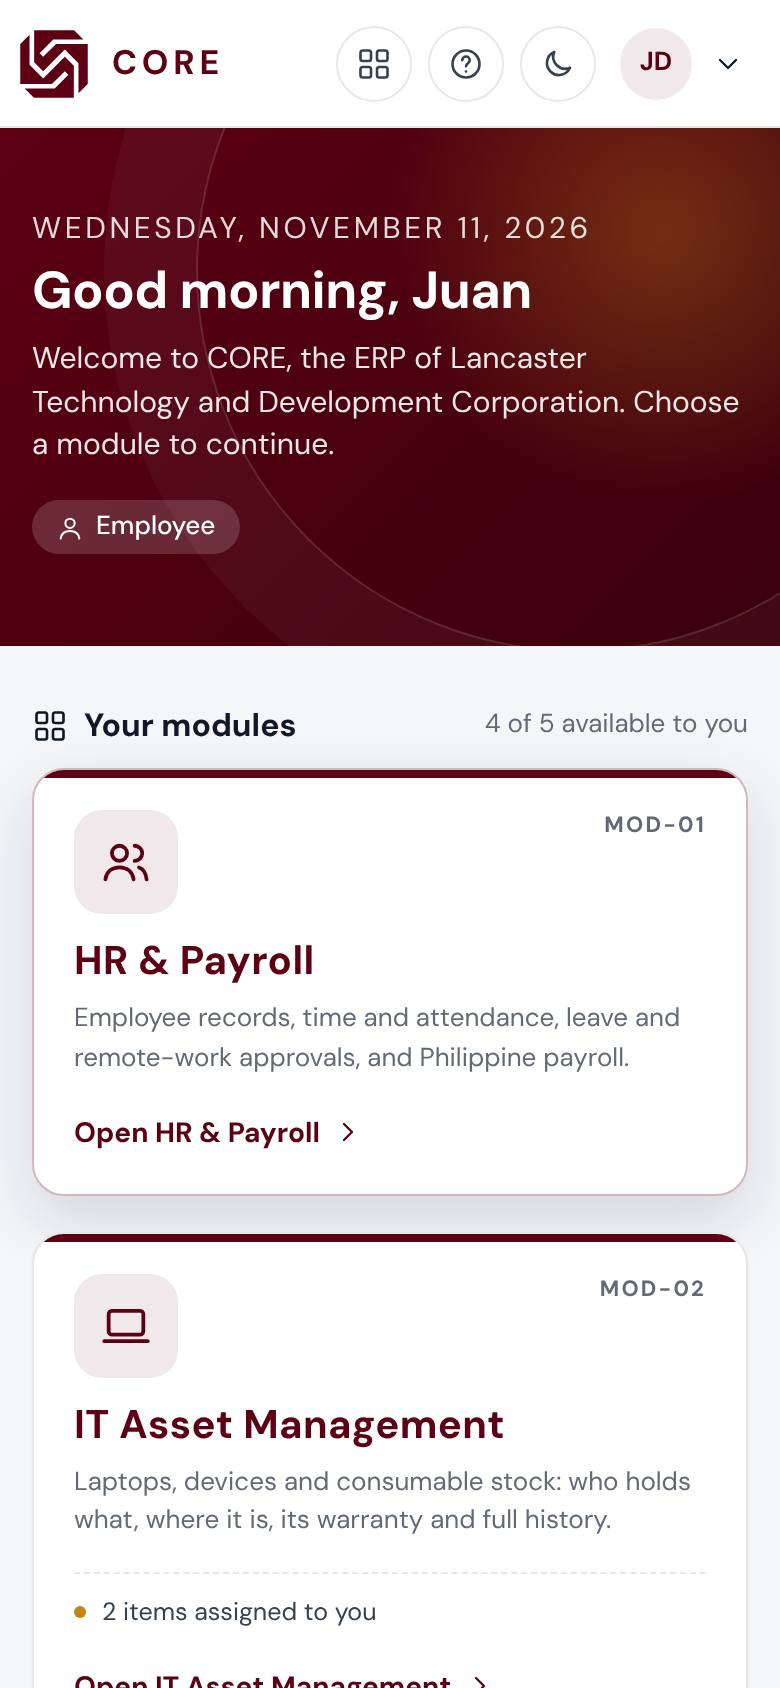
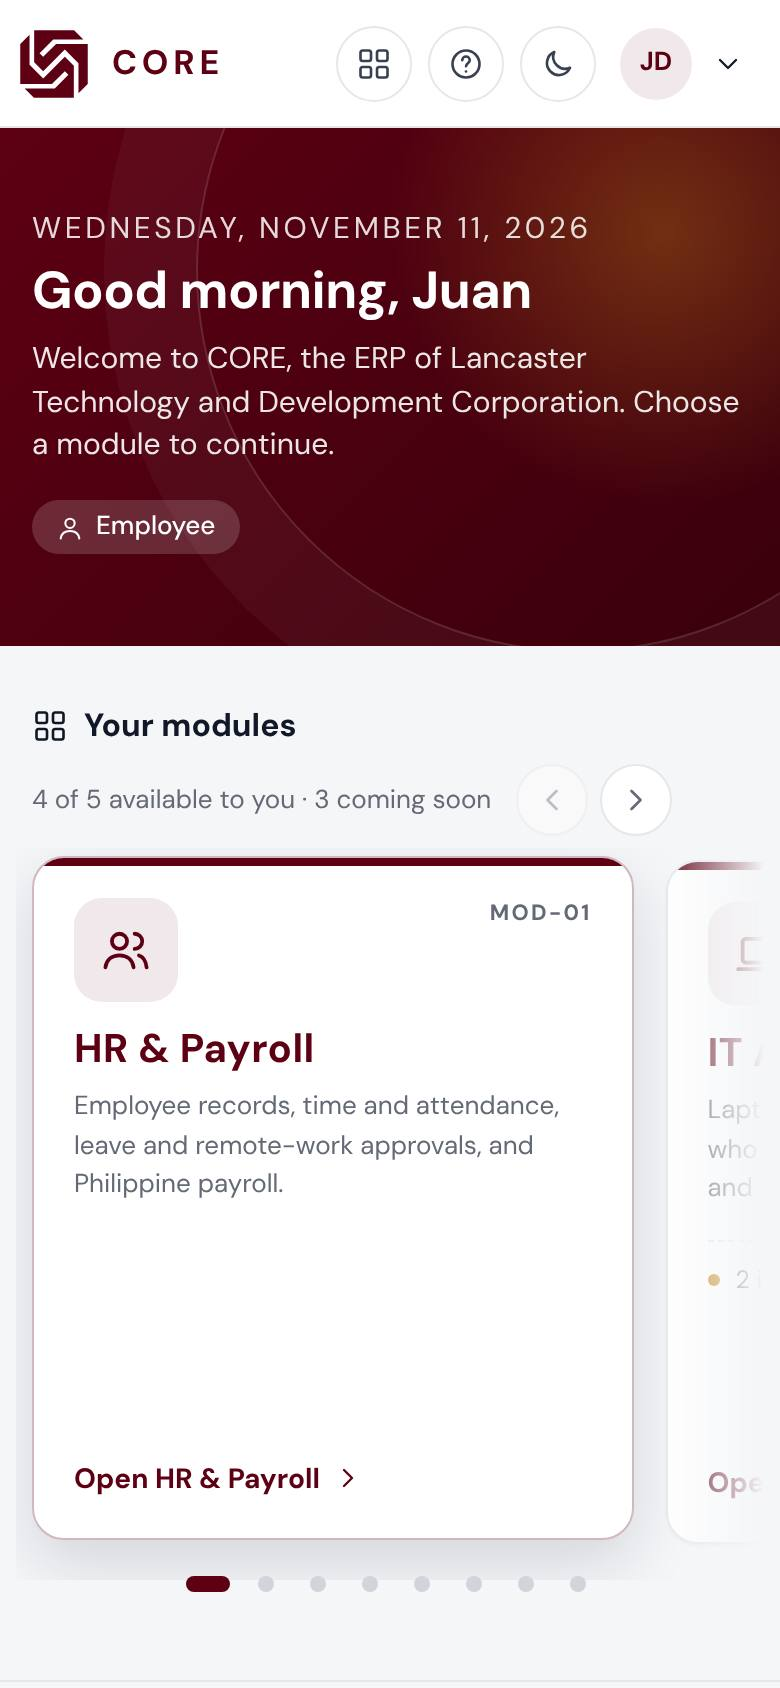
CORE 0.13.1: modules carousel on the CORE home, as on the ATLAS home
Your modules is now the same sliding, snapping row as ATLAS's "Your
systems": arrows and page dots when cards are out of view, swipe on
phones, arrow keys on the focused row, edge fades. Openable modules come
first, then locked ones, then roadmap modules as Coming soon cards (the
separate roadmap list is removed). Guide text and screenshots updated.

Claude-Session: https://claude.ai/code/session_01JQ4oxiUA7CnD1ir2UC84uB

diff --git a/public/css/styles.css b/public/css/styles.css
@@ -396,7 +396,36 @@ section.hub-wrap { margin-top: 28px; }
 .hub-kicker { font-size: 12px; letter-spacing: 0.12em; text-transform: uppercase; opacity: 0.85 !important; }
 .hub-role { display: inline-flex; align-items: center; gap: 6px; margin-top: 16px; padding: 4px 12px; border-radius: 999px; background: rgba(255, 255, 255, 0.16); font-size: 13px; font-weight: 600; }
 .hub-role + .hub-role { margin-left: 8px; }
-.sys-grid { display: grid; grid-template-columns: repeat(4, minmax(0, 1fr)); gap: 16px; }
+/* "Your modules" carousel: the same layout as the ATLAS home. */
+.sys-nav { display: flex; align-items: center; gap: 12px; }
+.sys-arrows { display: inline-flex; gap: 6px; }
+.sys-arrows[hidden] { display: none; }
+.sys-arrows .icon-btn { width: 36px; height: 36px; border-radius: 50%; border: 1px solid var(--border); background: var(--surface); }
+.sys-arrows .icon-btn:hover:not(:disabled) { border-color: var(--brand-line); color: var(--brand-text); }
+.sys-arrows .icon-btn:disabled { opacity: 0.4; cursor: default; }
+.sys-carousel { position: relative; }
+.sys-track { --gap: 16px; --per: 4; display: grid; grid-auto-flow: column; grid-auto-columns: calc((100% - (var(--per) - 1) * var(--gap)) / var(--per)); gap: var(--gap);
+  overflow-x: auto; overscroll-behavior-x: contain; scroll-snap-type: x mandatory; scroll-behavior: smooth; scrollbar-width: none;
+  padding: 6px 8px 18px; margin: -6px -8px -10px; scroll-padding-inline: 8px; }
+.sys-track::-webkit-scrollbar { display: none; }
+.sys-track:focus-visible { outline: 2px solid var(--brand); outline-offset: 2px; border-radius: 18px; }
+.sys-track > .sys-card { scroll-snap-align: start; }
+/* A soft fade on the side where more cards wait. */
+.sys-carousel.more-right .sys-track { -webkit-mask-image: linear-gradient(to right, #000 calc(100% - 56px), transparent); mask-image: linear-gradient(to right, #000 calc(100% - 56px), transparent); }
+.sys-carousel.more-left .sys-track { -webkit-mask-image: linear-gradient(to right, transparent, #000 56px); mask-image: linear-gradient(to right, transparent, #000 56px); }
+.sys-carousel.more-left.more-right .sys-track { -webkit-mask-image: linear-gradient(to right, transparent, #000 56px, #000 calc(100% - 56px), transparent); mask-image: linear-gradient(to right, transparent, #000 56px, #000 calc(100% - 56px), transparent); }
+.sys-dots { position: relative; z-index: 1; display: flex; justify-content: center; gap: 2px; }
+.sys-dots[hidden] { display: none; }
+/* 24px targets around small dots. */
+.sys-dots button { display: grid; place-items: center; min-width: 24px; height: 24px; padding: 0 4px; border: 0; background: none; cursor: pointer; }
+.sys-dots button::before { content: ''; width: 8px; height: 8px; border-radius: 999px; background: var(--border-strong); transition: width 0.2s, background 0.2s; }
+.sys-dots button:hover::before { background: var(--muted); }
+.sys-dots button[aria-current='true']::before { width: 22px; background: var(--brand); }
+.sys-dots button:focus-visible { outline: 2px solid var(--brand); outline-offset: 0; border-radius: 999px; }
+@media (prefers-reduced-motion: reduce) { .sys-track { scroll-behavior: auto; } .sys-dots button::before { transition: none; } }
+@media (max-width: 1100px) { .sys-track { --per: 3; } }
+@media (max-width: 820px) { .sys-track { --per: 2; } }
+@media (max-width: 560px) { .sys-track { --per: 1; grid-auto-columns: 84%; } }
 .sys-card { display: flex; flex-direction: column; gap: 6px; padding: 20px; min-height: 240px; background: var(--surface); border: 1px solid var(--border); border-radius: 16px; color: var(--text); box-shadow: var(--shadow); position: relative; overflow: hidden; transition: transform 0.14s, box-shadow 0.14s, border-color 0.14s; }
 .sys-card::before { content: ''; position: absolute; inset: 0 0 auto 0; height: 4px; background: var(--brand); }
 a.sys-card:hover { text-decoration: none; transform: translateY(-2px); box-shadow: var(--shadow-lg); border-color: var(--brand-line); }
@@ -438,7 +467,6 @@ body.hub .topbar { padding-left: 24px; }
   .cols.wide-left, .res-layout, .quiz-layout, .class-head { grid-template-columns: minmax(0, 1fr); }
   .grid, .grid.two { grid-template-columns: minmax(0, 1fr); }
   .span-2, .span-3 { grid-column: auto; }
-  .sys-grid { grid-template-columns: repeat(2, minmax(0, 1fr)); }
   .hub-wrap { padding: 0 16px; }
   .hub-hero h1 { font-size: 26px; }
   body.hub .topbar { padding-left: 12px; }
@@ -493,7 +521,6 @@ body.hub .topbar { padding-left: 24px; }
   .table.stackable .module-row .desc { grid-column: 2; max-width: none; margin-top: 0; }
   .scroll-x:has(.att-take) { overflow-x: visible; }
   .tiles { grid-template-columns: 1fr; }
-  .sys-grid { grid-template-columns: 1fr; }
   .sys-card { min-height: 0; }
 }
 @media print {
@@ -1173,7 +1200,6 @@ body.launcher-mode .sidebar, body.launcher-mode #menu-btn { display: none; }
 body.launcher-mode main#app { padding: 0; max-width: none; display: flex; flex-direction: column; min-height: calc(100vh - var(--topbar)); }
 .hub-hero .hub-wrap { position: relative; z-index: 1; }
 .hub-hero .hero-mark { position: absolute; right: 6%; top: 50%; transform: translateY(-50%); width: 210px; height: 210px; opacity: 0.16; z-index: 0; pointer-events: none; }
-.sys-grid.three { grid-template-columns: repeat(3, minmax(0, 1fr)); }
 .sys-figs { list-style: none; margin: 10px 0 0; padding: 10px 0 0; border-top: 1px dashed var(--border); display: grid; gap: 4px; font-size: 12.5px; color: var(--text-2); }
 .sys-figs li { display: flex; align-items: center; gap: 8px; }
 .sys-figs li::before { content: ''; width: 6px; height: 6px; border-radius: 50%; background: var(--accent); flex: none; }
@@ -1182,11 +1208,6 @@ body.launcher-mode main#app { padding: 0; max-width: none; display: flex; flex-d
 .sys-card.locked .sys-ic { background: var(--surface); color: var(--muted); border: 1px solid var(--border); }
 .sys-card.locked .sys-name { color: var(--muted); }
 .sys-code { font-size: 11px; font-weight: 700; letter-spacing: 0.1em; color: var(--muted); }
-.soon-grid { display: grid; grid-template-columns: repeat(5, minmax(0, 1fr)); gap: 12px; }
-.soon-item { display: flex; gap: 10px; align-items: flex-start; padding: 14px; border: 1px dashed var(--border-strong); border-radius: var(--radius); background: var(--surface); color: var(--muted); }
-.soon-item .ic { color: var(--muted); margin-top: 1px; }
-.soon-item strong { display: block; color: var(--text-2); font-size: 13px; }
-.soon-item small { display: block; font-size: 12px; line-height: 1.4; }
 .admin-tiles { display: grid; grid-template-columns: repeat(4, minmax(0, 1fr)); gap: 12px; }
 .admin-tile { display: flex; align-items: center; gap: 12px; padding: 14px 16px; background: var(--surface); border: 1px solid var(--border); border-radius: var(--radius); color: var(--text); box-shadow: var(--shadow); }
 .admin-tile:hover { text-decoration: none; border-color: var(--brand-line); background: var(--brand-softer); }
@@ -1200,20 +1221,17 @@ body.launcher-mode main#app { padding: 0; max-width: none; display: flex; flex-d
 
 
 @media (max-width: 1100px) {
-  .soon-grid { grid-template-columns: repeat(3, minmax(0, 1fr)); }
   .admin-tiles { grid-template-columns: repeat(2, minmax(0, 1fr)); }
 }
 @media (max-width: 960px) {
-  .sys-grid.three { grid-template-columns: repeat(2, minmax(0, 1fr)); }
   .hub-hero .hero-mark { width: 140px; height: 140px; right: 4%; }
   .mod-pop { position: fixed; left: 10px; right: 10px; top: calc(var(--topbar) + 4px); min-width: 0; }
 }
 @media (max-width: 760px) {
   .table.stackable tr.unread td:first-child, .table.stackable tr.flag-row td:first-child { box-shadow: none; }
   .table.stackable tr.unread, .table.stackable tr.flag-row { box-shadow: inset 3px 0 0 var(--gold-bright); padding-left: 12px; }
-  .sys-grid.three, .admin-tiles { grid-template-columns: 1fr; }
-  .soon-grid { grid-template-columns: repeat(2, minmax(0, 1fr)); }
-  .hub-hero .hero-mark { display: none; }
+  .admin-tiles { grid-template-columns: 1fr; }
+    .hub-hero .hero-mark { display: none; }
   .topbar .brand .core-word em { display: none; }
 }
 @media print {

diff --git a/public/js/views/launcher.js b/public/js/views/launcher.js
@@ -89,6 +89,15 @@ export async function launcherView(el) {
           <span class="sys-open">${icon('lock', 14)} No access · ask your administrator</span>
         </div>`;
   };
+  // A module still in development: greyed out at the end of the row, as on the ATLAS home.
+  const soonCard = (m) => html`<div class="sys-card soon" data-module="${m.id}" aria-disabled="true" title="${m.name} is coming soon">
+      <span class="sys-top"><span class="sys-ic">${icon(m.glyph, 26)}</span><span class="badge gray">${icon('lock', 12)} Coming soon</span></span>
+      <strong class="sys-name" style="font-size:20px">${m.name}</strong>
+      <p>${m.description}</p>
+      <span class="sys-open">Not available yet</span>
+    </div>`;
+  // The ones this account can open come first, then locked ones, then the roadmap.
+  const ordered = [...live.filter((m) => ctx.moduleHome(m.id)), ...live.filter((m) => !ctx.moduleHome(m.id))];
 
   const admin = [
     can('users.manage') && ['/users', 'shield', 'Users & Access', 'Accounts, roles and agents'],
@@ -109,8 +118,13 @@ export async function launcherView(el) {
     </section>
 
     <section class="hub-wrap">
-      <div class="card-head"><h2>${icon('grid')} Your modules</h2><span class="muted small">${open} of ${live.length} available to you</span></div>
-      <div class="sys-grid ${live.length === 3 || live.length === 5 ? 'three' : ''}">${live.map(card)}</div>
+      <div class="card-head"><h2 id="sys-heading">${icon('grid')} Your modules</h2>
+        <div class="sys-nav"><span class="muted small">${open} of ${live.length} available to you${soon.length ? ` · ${soon.length} coming soon` : ''}</span>
+          <span class="sys-arrows" hidden><button type="button" class="icon-btn" id="sys-prev" aria-label="Previous modules" aria-controls="sys-track">${icon('chevronLeft', 18)}</button><button type="button" class="icon-btn" id="sys-next" aria-label="More modules" aria-controls="sys-track">${icon('chevronRight', 18)}</button></span></div></div>
+      <div class="sys-carousel" id="sys-carousel">
+        <div class="sys-track" id="sys-track" role="region" aria-labelledby="sys-heading" tabindex="0">${ordered.map(card)}${soon.map(soonCard)}</div>
+      </div>
+      <div class="sys-dots" id="sys-dots" hidden></div>
     </section>
 
     ${admin.length
@@ -120,13 +134,68 @@ export async function launcherView(el) {
         </section>`
       : ''}
 
-    <section class="hub-wrap">
-      <div class="card-head"><h2>${icon('layers')} On the roadmap</h2><span class="muted small">In development</span></div>
-      <div class="soon-grid">${soon.map((m) => html`<div class="soon-item">${icon(m.glyph, 20)}<span><strong>${m.name}</strong><small>${m.description}</small></span></div>`)}</div>
-    </section>
-
     <footer class="hub-foot"><div class="hub-wrap">
       <span class="core-foot"><img src="/img/core-mark-brand.svg" alt="" /> CORE · ERP by Lancaster</span>
       <span>© ${new Date().getFullYear()} ${ctx.settings.companyName}</span>
     </div></footer>`);
+  modulesCarousel(el.querySelector('#sys-carousel'));
+}
+
+// "Your modules" as a carousel, as on the ATLAS home: the cards scroll sideways and snap into place
+// (swipe on a phone, arrows or dots elsewhere, or arrow keys once the row has focus). The arrows
+// and dots only show when some cards are out of view.
+function modulesCarousel(wrap) {
+  const track = wrap.querySelector('#sys-track');
+  const arrows = document.querySelector('.sys-arrows');
+  const prev = document.getElementById('sys-prev');
+  const next = document.getElementById('sys-next');
+  const dots = document.getElementById('sys-dots');
+  const smooth = () => (window.matchMedia('(prefers-reduced-motion: reduce)').matches ? 'auto' : 'smooth');
+  const cardStep = () => (track.children[1] ? track.children[1].offsetLeft - track.children[0].offsetLeft : track.clientWidth);
+  const perPage = () => Math.max(1, Math.round(track.clientWidth / cardStep()));
+  const pages = () => Math.max(1, Math.ceil(track.children.length / perPage() - 0.01));
+  const atEnd = () => track.scrollLeft + track.clientWidth >= track.scrollWidth - 4;
+  const pageNow = () => (atEnd() ? pages() - 1 : Math.min(pages() - 1, Math.round(track.scrollLeft / (cardStep() * perPage()))));
+  const goPage = (n) => track.scrollTo({ left: Math.max(0, n) * cardStep() * perPage(), behavior: smooth() });
+  let drawn = -1;
+  const update = () => {
+    if (!track.isConnected) return;
+    const overflow = track.scrollWidth > track.clientWidth + 2;
+    arrows.hidden = !overflow;
+    dots.hidden = !overflow;
+    wrap.classList.toggle('more-left', overflow && track.scrollLeft > 4);
+    wrap.classList.toggle('more-right', overflow && track.scrollLeft + track.clientWidth < track.scrollWidth - 4);
+    prev.disabled = track.scrollLeft <= 4;
+    next.disabled = atEnd();
+    if (!overflow) return;
+    if (drawn !== pages()) {
+      drawn = pages();
+      dots.innerHTML = Array.from({ length: drawn }, (_, i) => `<button type="button" data-page="${i}" aria-label="Modules, page ${i + 1} of ${drawn}"></button>`).join('');
+    }
+    [...dots.children].forEach((d, i) => d.setAttribute('aria-current', i === pageNow() ? 'true' : 'false'));
+  };
+  prev.addEventListener('click', () => goPage(pageNow() - 1));
+  next.addEventListener('click', () => goPage(pageNow() + 1));
+  dots.addEventListener('click', (e) => {
+    const b = e.target.closest('[data-page]');
+    if (b) goPage(Number(b.dataset.page));
+  });
+  track.addEventListener('keydown', (e) => {
+    if (e.target !== track || !['ArrowLeft', 'ArrowRight'].includes(e.key)) return;
+    e.preventDefault();
+    track.scrollBy({ left: (e.key === 'ArrowRight' ? 1 : -1) * cardStep(), behavior: smooth() });
+  });
+  // A card reached with Tab is brought fully into view.
+  track.addEventListener('focusin', (e) => {
+    const card = e.target.closest('.sys-card');
+    if (card) card.scrollIntoView({ block: 'nearest', inline: 'nearest', behavior: smooth() });
+  });
+  let raf = 0;
+  track.addEventListener('scroll', () => {
+    cancelAnimationFrame(raf);
+    raf = requestAnimationFrame(update);
+  }, { passive: true });
+  const ro = new ResizeObserver(() => (track.isConnected ? update() : ro.disconnect()));
+  ro.observe(track);
+  update();
 }

diff --git a/shared/devlog.js b/shared/devlog.js
@@ -28,6 +28,16 @@ export const CHANGE_TYPES = { new: 'Added', improved: 'Changed', fixed: 'Fixed' 
 
 export const DEVLOG = [
   {
+    version: '0.13.1-alpha',
+    date: '2026-11-11',
+    title: 'Modules carousel on the CORE home',
+    modules: ['system'],
+    notes: 'The CORE home shows the modules in a sliding row, the same layout as the ATLAS home.',
+    changes: [
+      ['improved', 'system', 'Your modules is a carousel: the cards slide sideways and snap into place, with arrows and page dots (shown only when some cards are out of view), swipe on phones, and the arrow keys once the row is selected. Modules you can open come first, then locked ones, then the modules in development, marked Coming soon. The separate "On the roadmap" list is gone.'],
+    ],
+  },
+  {
     version: '0.13.0-alpha',
     date: '2026-11-11',
     title: 'Project Management module',

diff --git a/docs/guides/getting-started.md b/docs/guides/getting-started.md
@@ -36,7 +36,7 @@ This tour uses the demo data. Sign in as `employee.demo` with the password `demo
 
 ![The CORE sign-in page](getting-started-signin.jpg)
 
-2. The **CORE home** greets you by name, with today's date and your account type. **Your modules** has a card for each module. A module you may open shows a few live figures (for Juan: the equipment assigned to him and his open ticket) and **Open** with its name. A locked card says *No access · ask your administrator*. Further down, **On the roadmap** lists the modules in development.
+2. The **CORE home** greets you by name, with today's date and your account type. **Your modules** has a card for each module. A module you may open shows a few live figures (for Juan: the equipment assigned to him and his open ticket) and **Open** with its name. A locked card says *No access · ask your administrator*. The cards sit in one row that slides sideways: swipe it on a phone, or use the arrows or dots beside **Your modules** (or the arrow keys once the row is selected). After the modules you may open come the locked ones, then the modules still in development, greyed out and marked *Coming soon*.
 
 ![The CORE home, with a card per module](getting-started-home.jpg)
 
@@ -161,7 +161,7 @@ Choose your name at the top right, then **Sign out**. You are also signed out af
 | Screen | What it is for |
 |---|---|
 | Sign-in page | Your username and password; the 2-step code; choosing your own password the first time |
-| CORE home | The modules you may open, with live figures, the roadmap, and shortcuts for administrators |
+| CORE home | Your modules in a sliding row (the ones you may open, with live figures, then the ones coming soon), and shortcuts for administrators |
 | Modules menu (grid button) | Switching modules from anywhere |
 | Help & guides (question mark) | The guide for your job, search, and what's new |
 | Your name (top right) | Send feedback, My security, Change password, Sign out |

diff --git a/docs/guides/whats-new.md b/docs/guides/whats-new.md
@@ -9,6 +9,9 @@ order: 2
 
 ## November 2026
 
+### Modules carousel (0.13.1)
+- The CORE home shows **Your modules** in a sliding row, like the ATLAS home: swipe it on a phone, or use the arrows and dots. Modules coming soon are at the end of the row. See [Getting started](getting-started).
+
 ### Project Management (0.13)
 - A new module, **Project Management**: projects with milestones and contract deliverables, a task board, a list, a timeline, time logs, and health worked out from the tasks. See [the projects guide](projects).
 - **My work** lists the tasks assigned to you in every project you are on, and **My Home** shows them too. Anyone a project manager adds to a project can open it. See [Getting started](getting-started#see-your-project-tasks-my-work).
